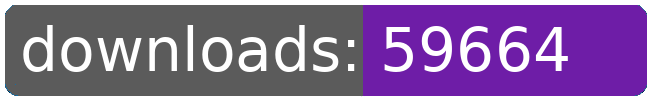
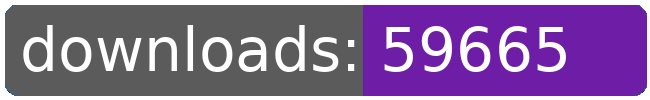
dl log written

Changed region(s): [[0.8, 0.27, 0.8923, 0.72]]

diff --git a/README.md b/README.md
@@ -21,8 +21,8 @@
 		<td>3925</td>
 		<td>3949</td>
 		<td>3977</td>
-		<td>3989</td>
-		<td>+ 12</td>
+		<td>3990</td>
+		<td>+ 13</td>
 	</tr>
 	<tr>
 		<td>aberrant.kahet.outfitter</td>
@@ -274,8 +274,8 @@
 		<td></td>
 		<td></td>
 		<td></td>
-		<td>59664</td>
-		<td>173</td>
+		<td>59665</td>
+		<td>174</td>
 	</tr>
 </table>
 </sub></sup>
@@ -322,8 +322,8 @@
 		<td>3925</td>
 		<td>3949</td>
 		<td>3977</td>
-		<td>3989</td>
-		<td>+ 12</td>
+		<td>3990</td>
+		<td>+ 13</td>
 	</tr>
 	<tr>
 		<td>capture.archons</td>
@@ -553,8 +553,8 @@
 		<td></td>
 		<td></td>
 		<td></td>
-		<td>59664</td>
-		<td>173</td>
+		<td>59665</td>
+		<td>174</td>
 	</tr>
 </table>
 </sub></sup>
